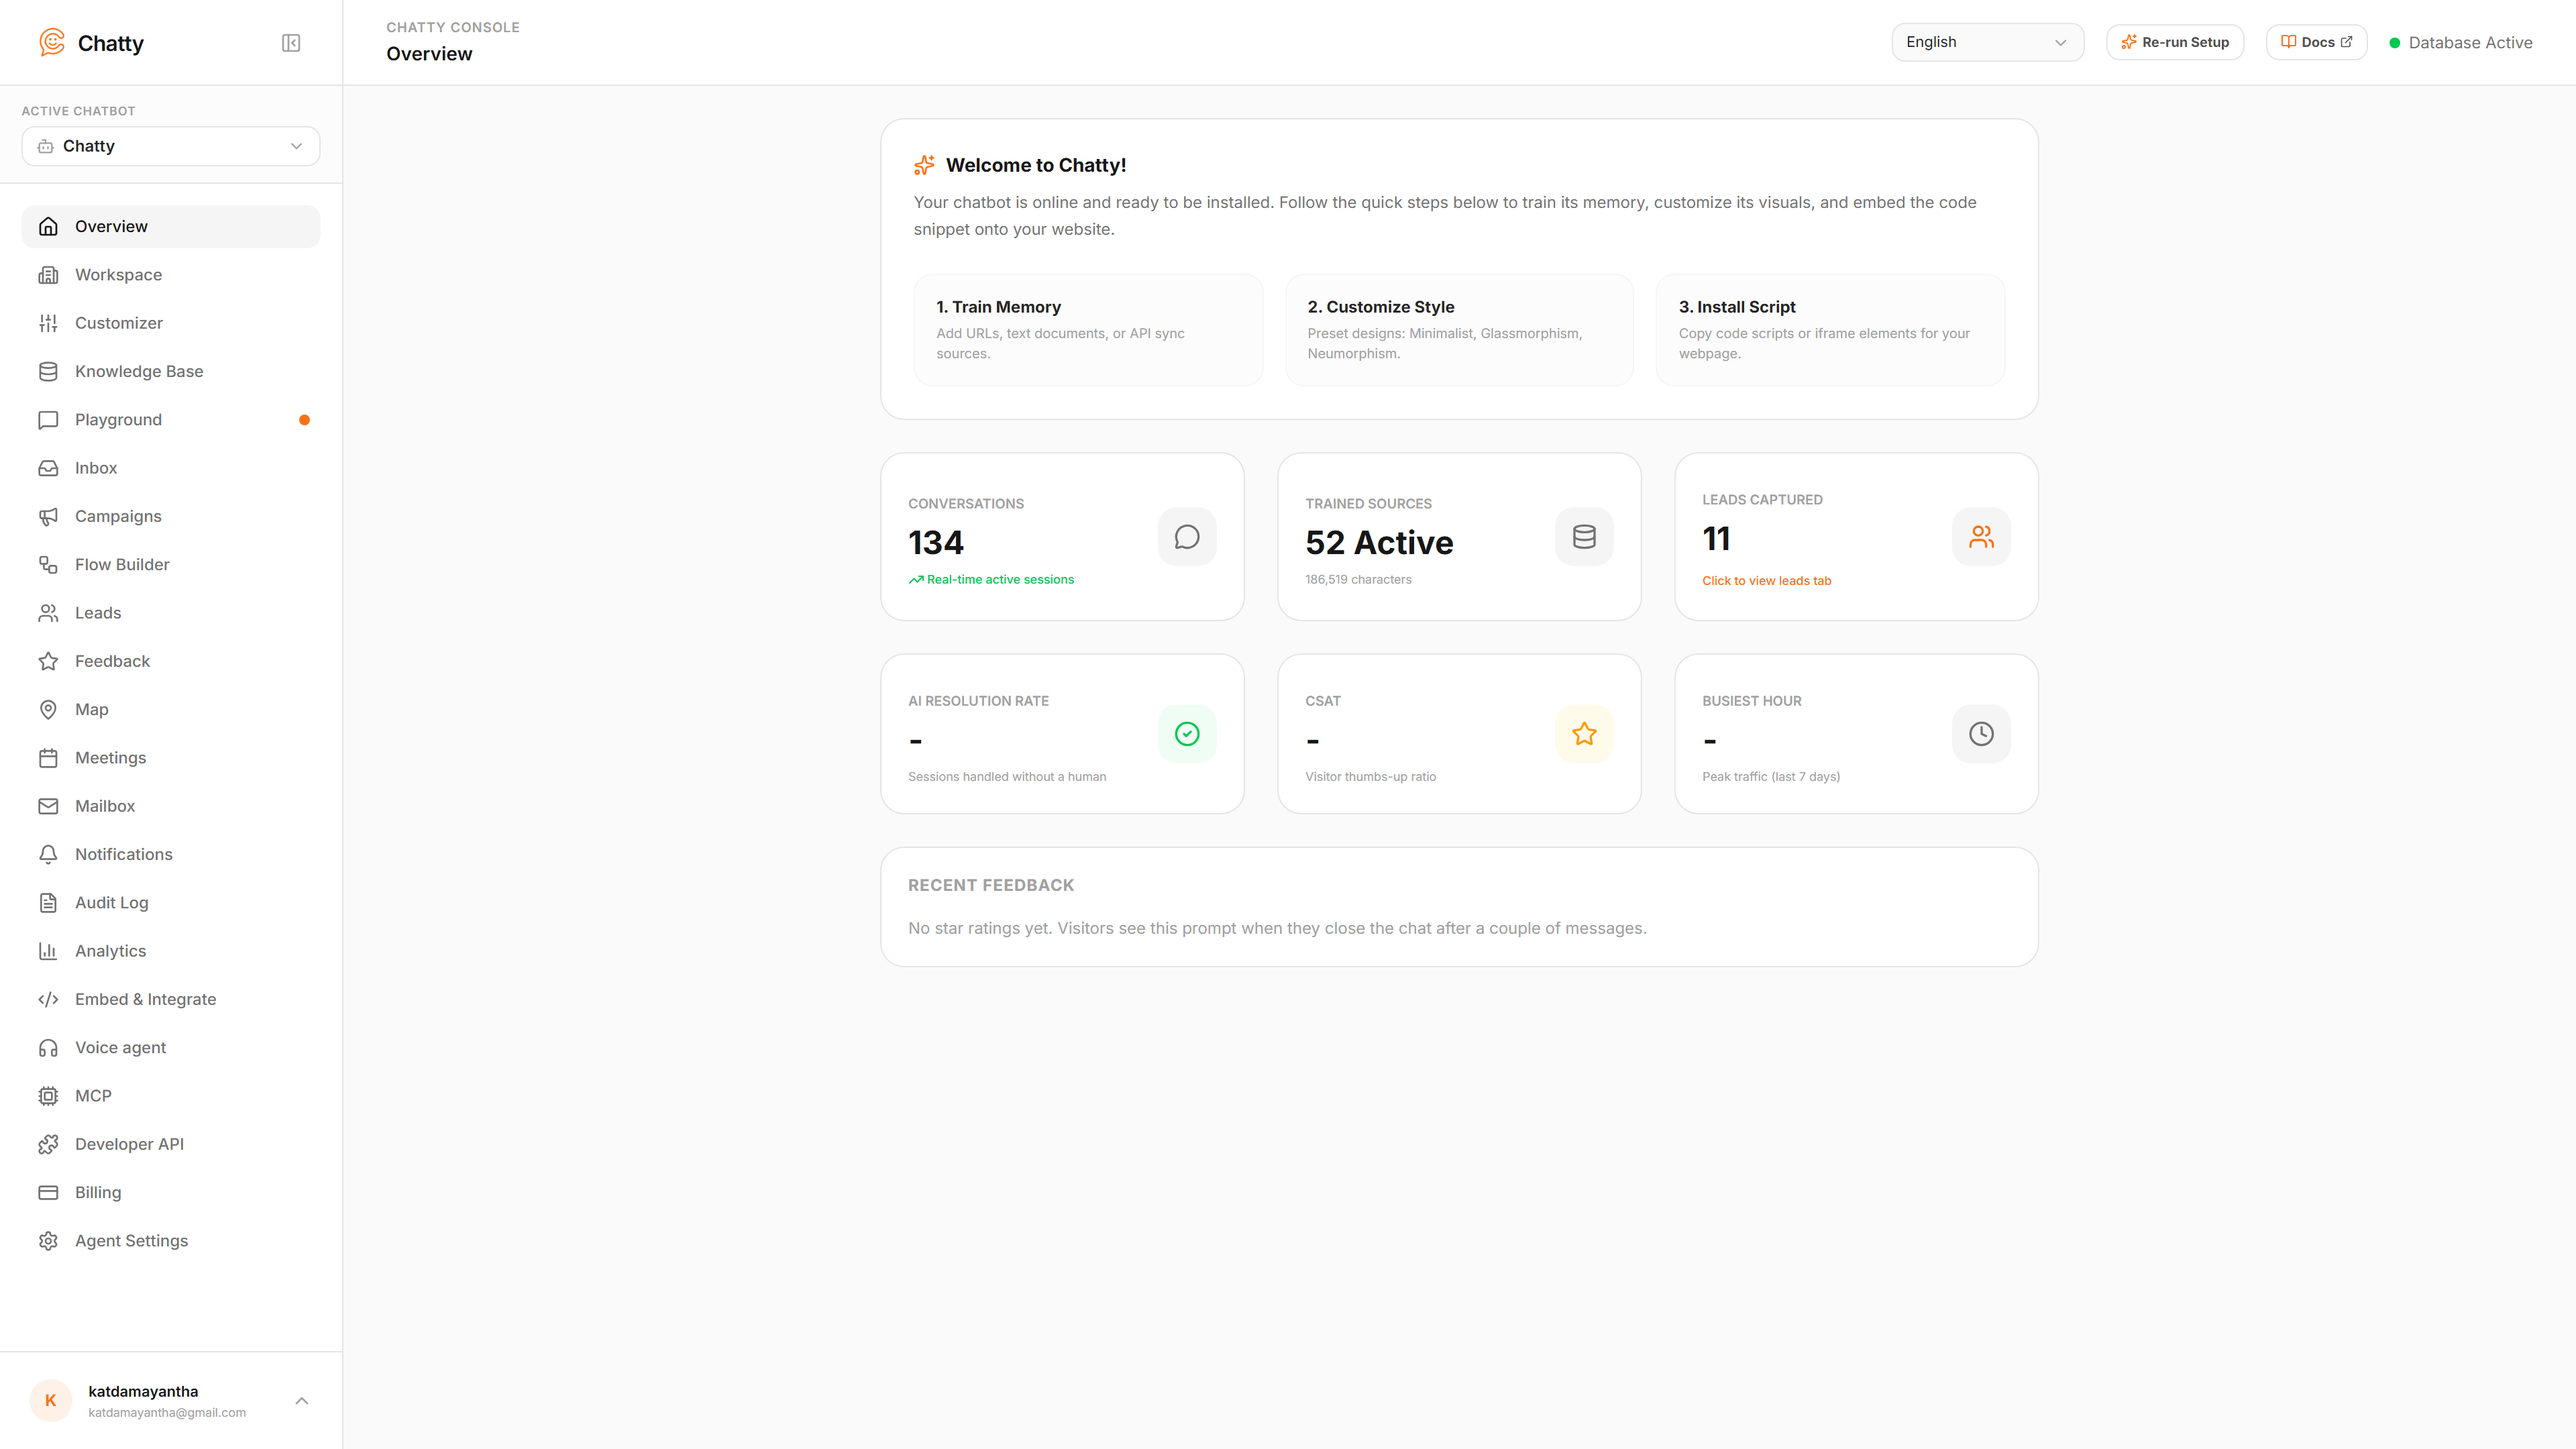
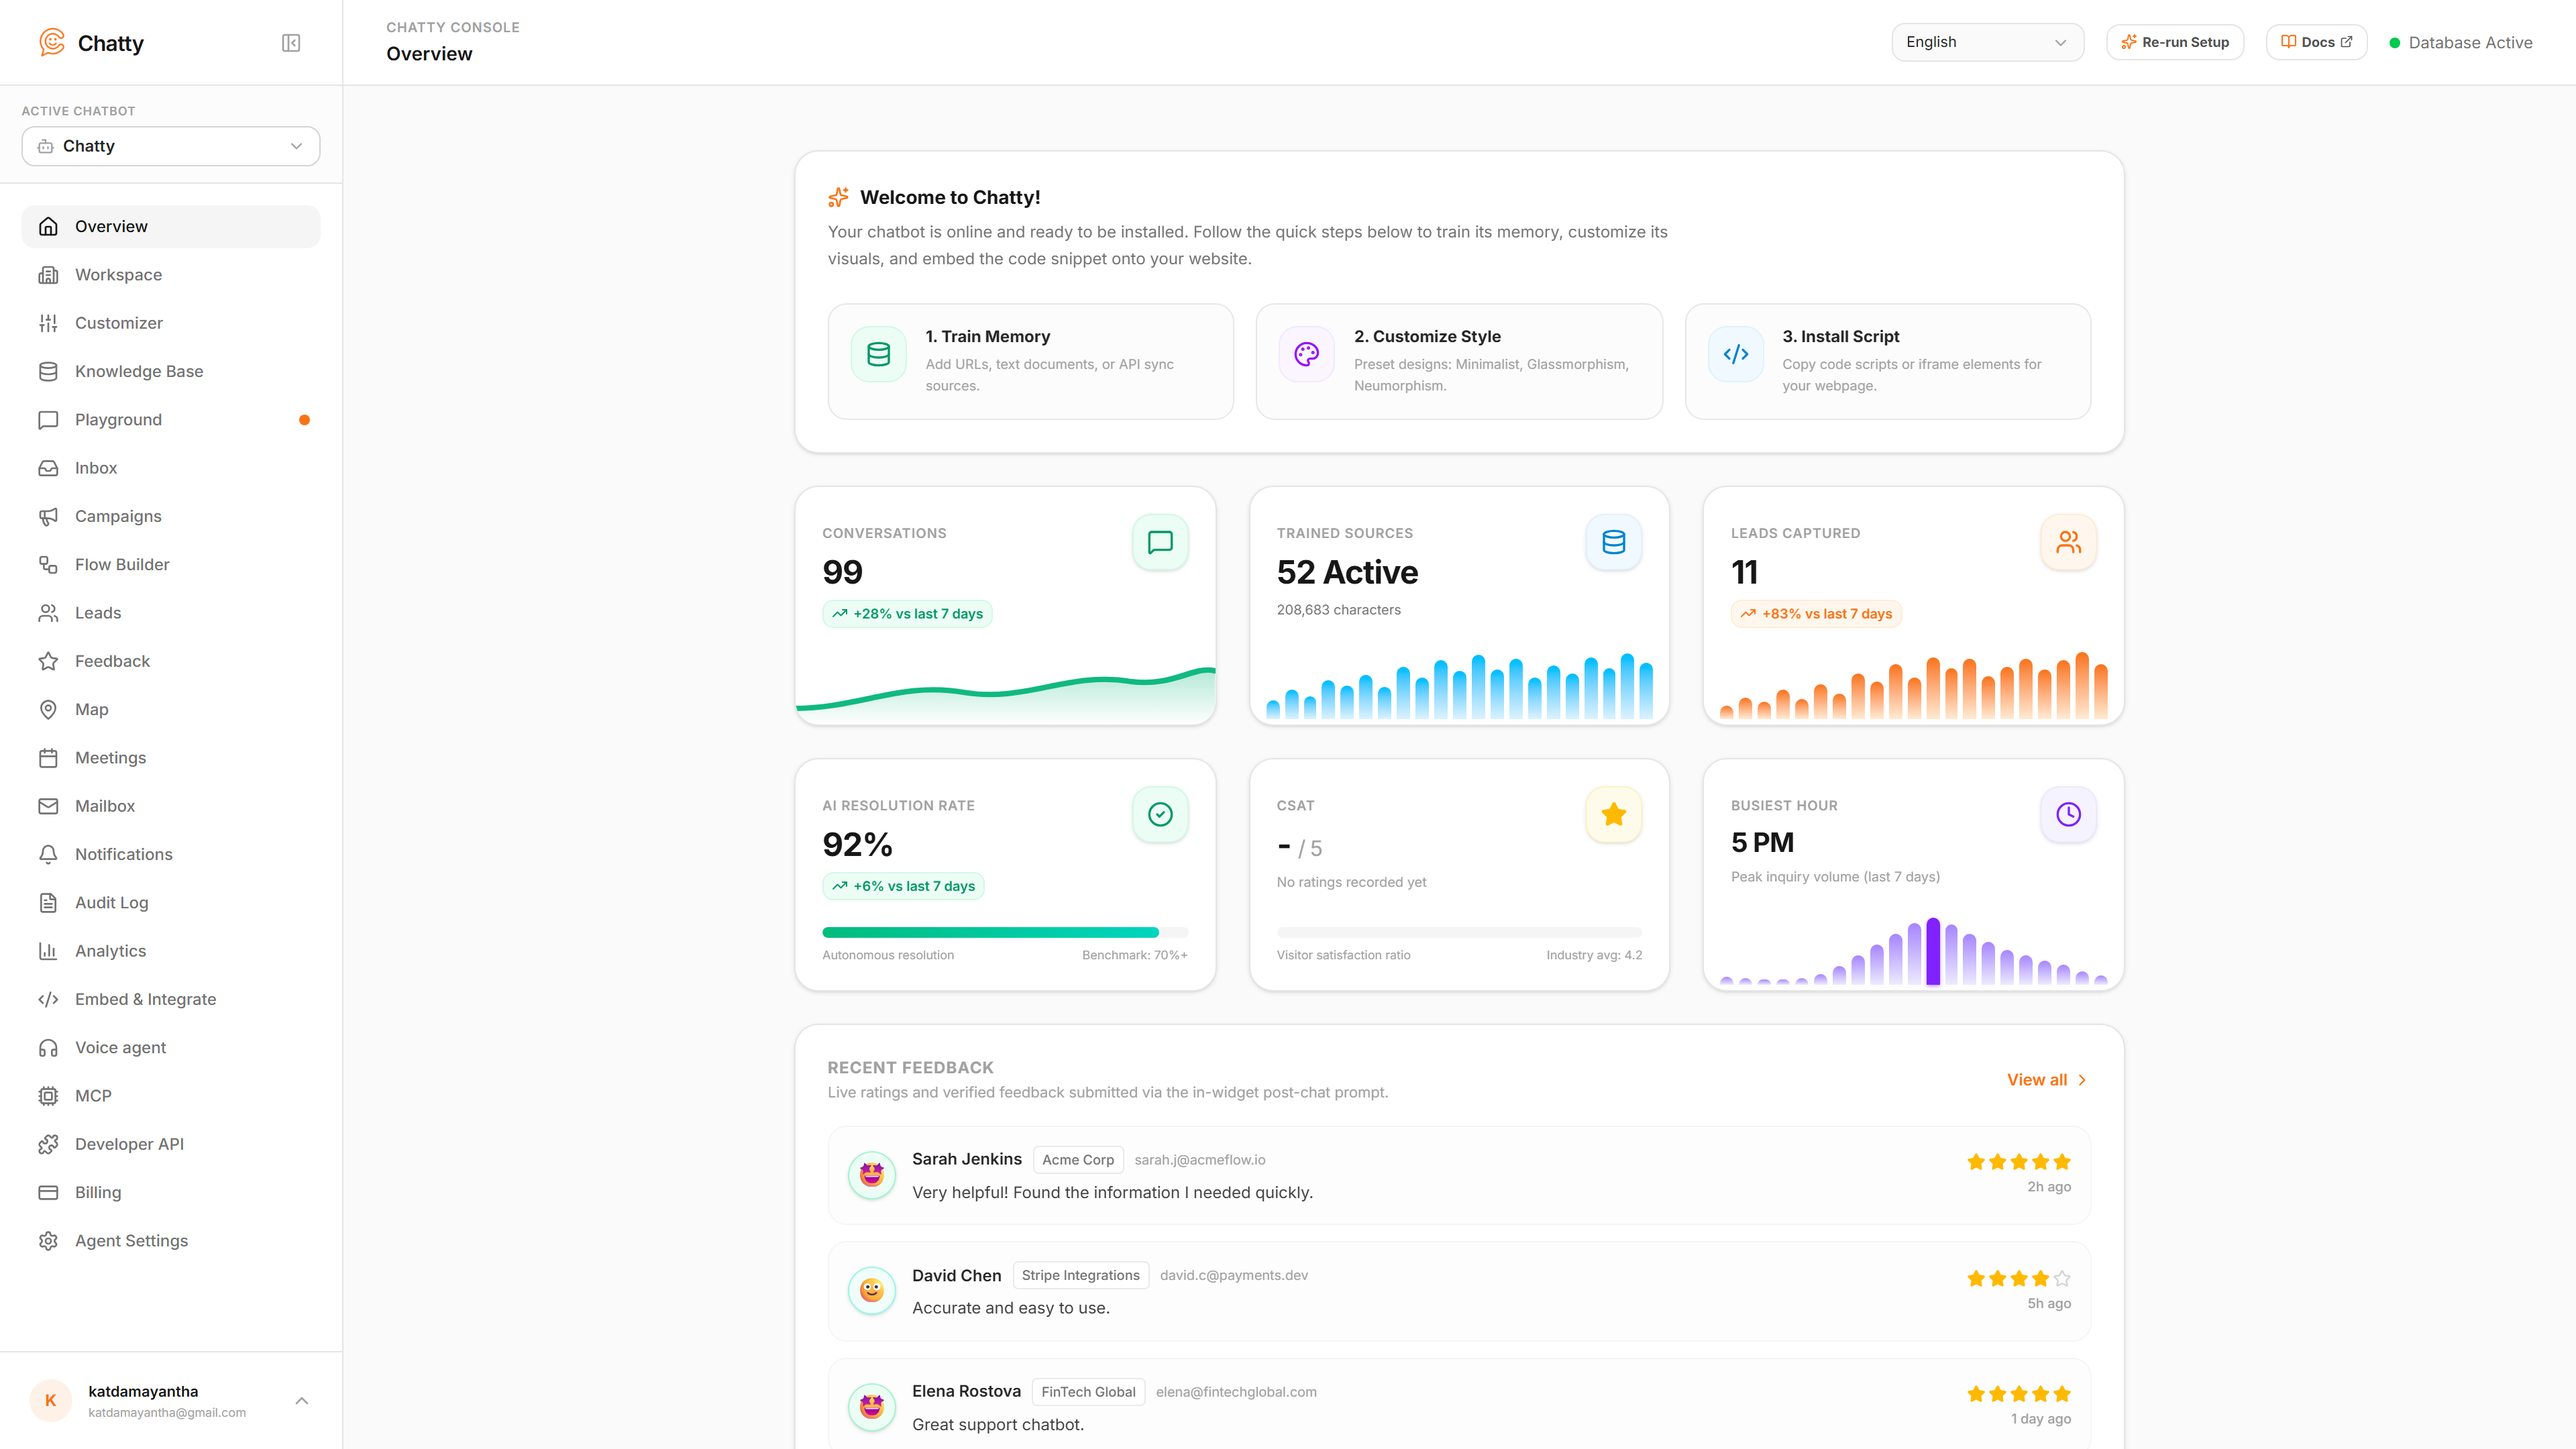
assets(overview): update 4K Retina overview screenshot for README and add migration for shared bot team feedback RLS

diff --git a/frontend/scripts/capture_overview_4k.js b/frontend/scripts/capture_overview_4k.js
@@ -1,0 +1,83 @@
+const { chromium } = require('@playwright/test');
+const path = require('path');
+const fs = require('fs');
+
+async function capture() {
+  console.log('Launching headless Chromium at 3840x2160 (1920x1080 @ 2x Retina)...');
+  const browser = await chromium.launch({
+    headless: true,
+  });
+
+  const context = await browser.newContext({
+    viewport: { width: 1920, height: 1080 },
+    deviceScaleFactor: 2,
+    userAgent: 'Mozilla/5.0 (Windows NT 10.0; Win64; x64) AppleWebKit/537.36 (KHTML, like Gecko) Chrome/128.0.0.0 Safari/537.36',
+  });
+
+  const page = await context.newPage();
+
+  console.log('Navigating to login page...');
+  await page.goto('https://chatty.personaliai.com/login', { waitUntil: 'networkidle', timeout: 45000 });
+
+  console.log('Entering credentials for katdamayantha@gmail.com...');
+  await page.fill('#email', 'katdamayantha@gmail.com');
+  await page.fill('#password', 'Abc@123A');
+
+  console.log('Submitting login form...');
+  await Promise.all([
+    page.waitForURL(/.*dashboard.*/, { timeout: 30000 }).catch(() => console.log('waitForURL completed or redirected')),
+    page.click('button[type="submit"]'),
+  ]);
+
+  await page.waitForTimeout(3000);
+  console.log('Current URL after submit:', page.url());
+
+  if (!page.url().includes('/dashboard')) {
+    console.log('Navigating to /dashboard explicitly...');
+    await page.goto('https://chatty.personaliai.com/dashboard', { waitUntil: 'networkidle', timeout: 45000 });
+  }
+
+  console.log('Waiting for dashboard networkidle...');
+  await page.waitForLoadState('networkidle');
+
+  // Ensure Overview tab is clicked/active
+  try {
+    const overviewBtn = await page.waitForSelector('text=Overview', { timeout: 10000 });
+    if (overviewBtn) {
+      await overviewBtn.click();
+    }
+  } catch (e) {
+    console.log('Overview selector notice:', e.message);
+  }
+
+  // Wait for RECENT FEEDBACK or welcome banner
+  try {
+    await page.waitForSelector('text=RECENT FEEDBACK', { timeout: 20000 });
+  } catch (e) {
+    console.log('Recent feedback selector wait notice:', e.message);
+  }
+
+  // Generous pause so all charts, counters, badges, and avatars settle
+  console.log('Waiting 8 seconds for all telemetry, charts, and animations to fully hydrate...');
+  await page.waitForTimeout(8000);
+
+  const outputPath = path.resolve(__dirname, '../../screenshots/real-01-overview.png');
+  console.log('Writing screenshot to:', outputPath);
+  await page.screenshot({ path: outputPath, fullPage: false });
+
+  // Copy to brain artifacts folder for embedding in chat
+  const artifactDir = 'C:\\Users\\HP\\.gemini\\antigravity\\brain\\bf4307fa-8172-4f0b-8fcd-81903842114b';
+  if (fs.existsSync(artifactDir)) {
+    const artifactPath = path.join(artifactDir, 'real-01-overview-captured.png');
+    fs.copyFileSync(outputPath, artifactPath);
+    console.log('Copied to artifact path:', artifactPath);
+  }
+
+  console.log('Screenshot capture complete!');
+  await browser.close();
+}
+
+capture().catch(err => {
+  console.error('Capture failed:', err);
+  process.exit(1);
+});
